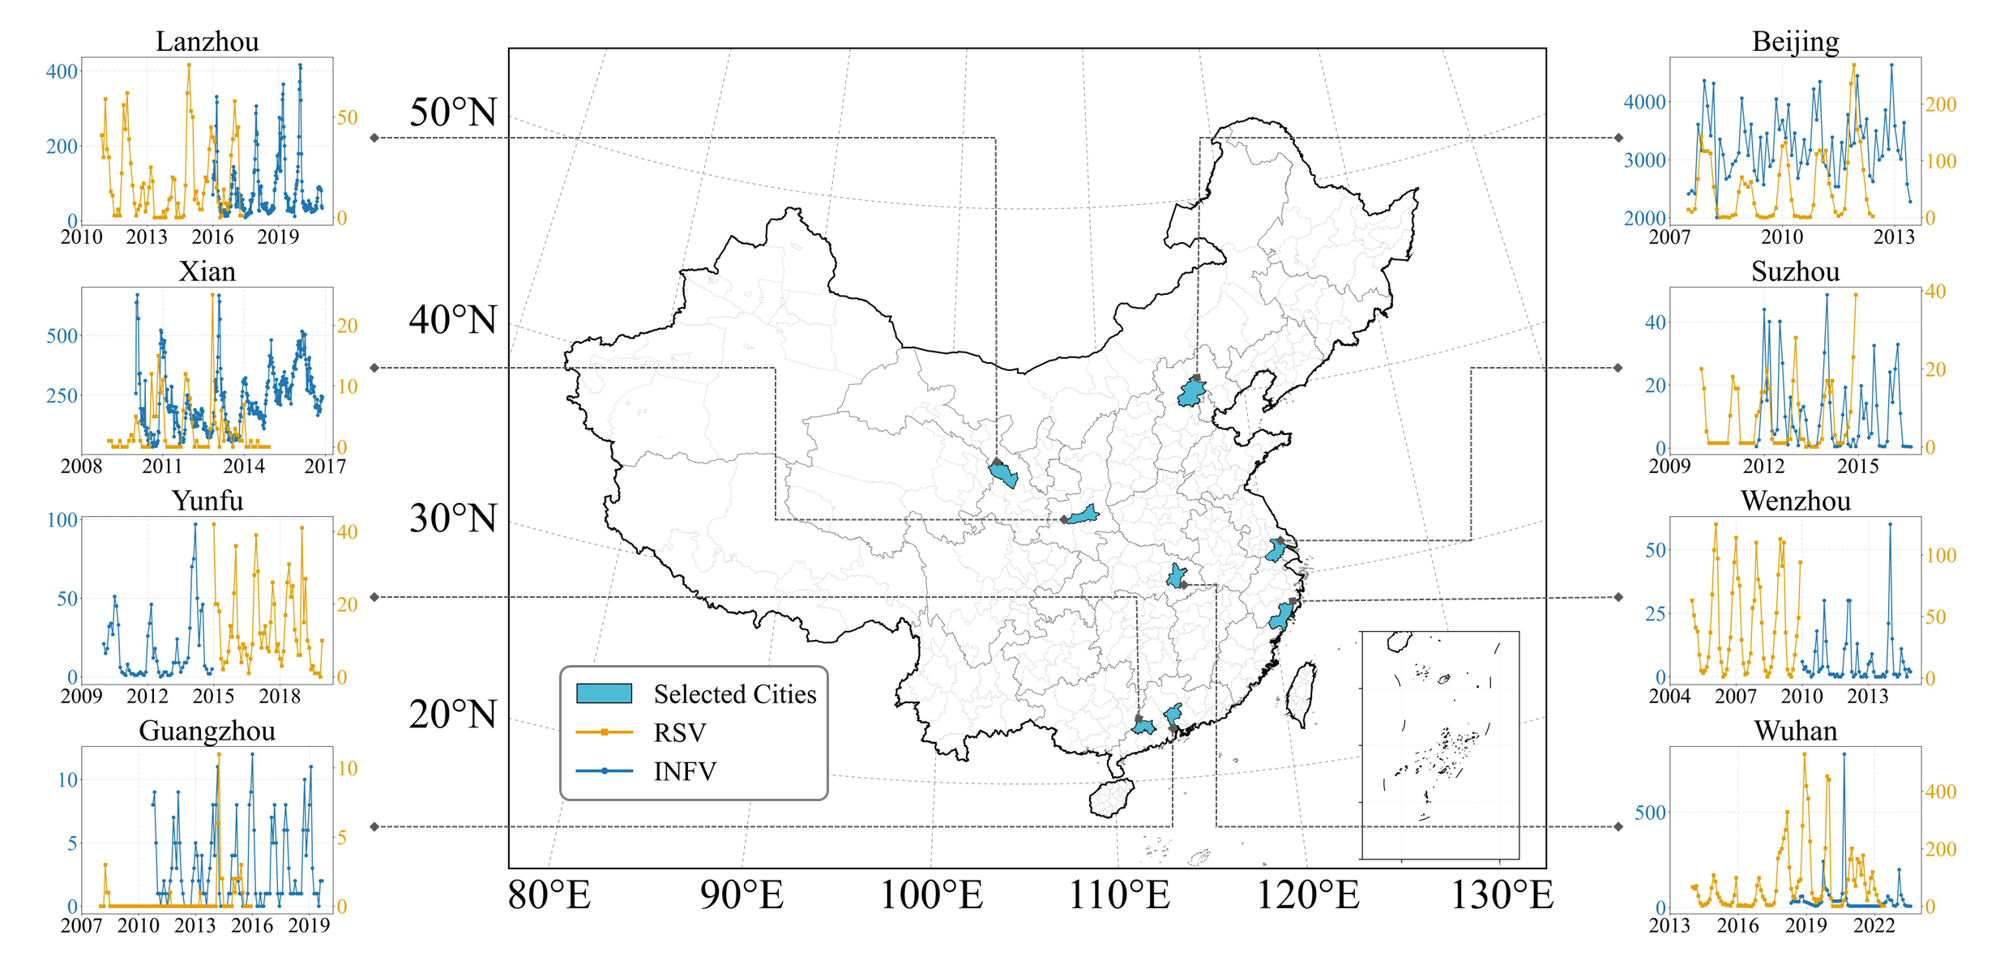
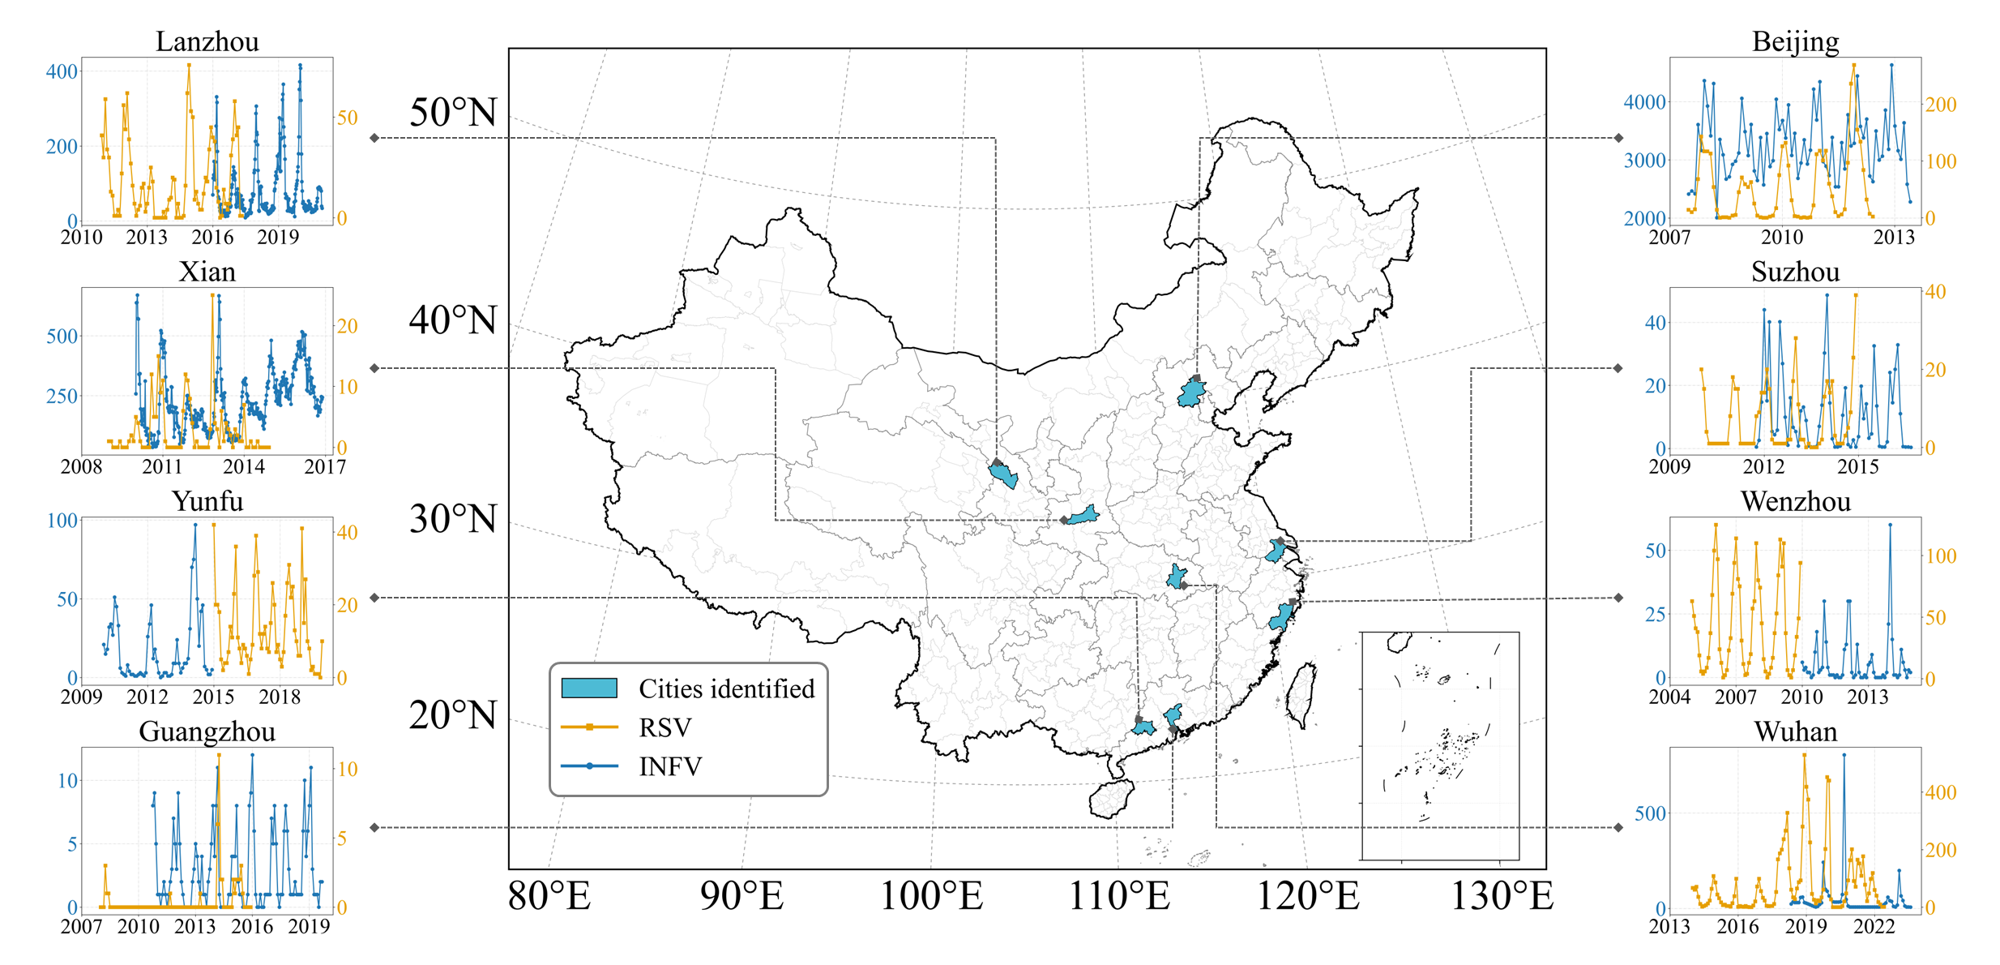
Update Figure 1 legend

Changed region(s): [[0.279, 0.6846, 0.434, 0.8402]]

diff --git a/code/2_visualisation_fig1_data_selection.py b/code/2_visualisation_fig1_data_selection.py
@@ -394,7 +394,7 @@ class Figure1Plotter:
             Patch(
                 facecolor=self.config["highlight_color"],
                 edgecolor="black",
-                label="Selected Cities",
+                label="Cities identified",
             ),
             Line2D(
                 [0],
